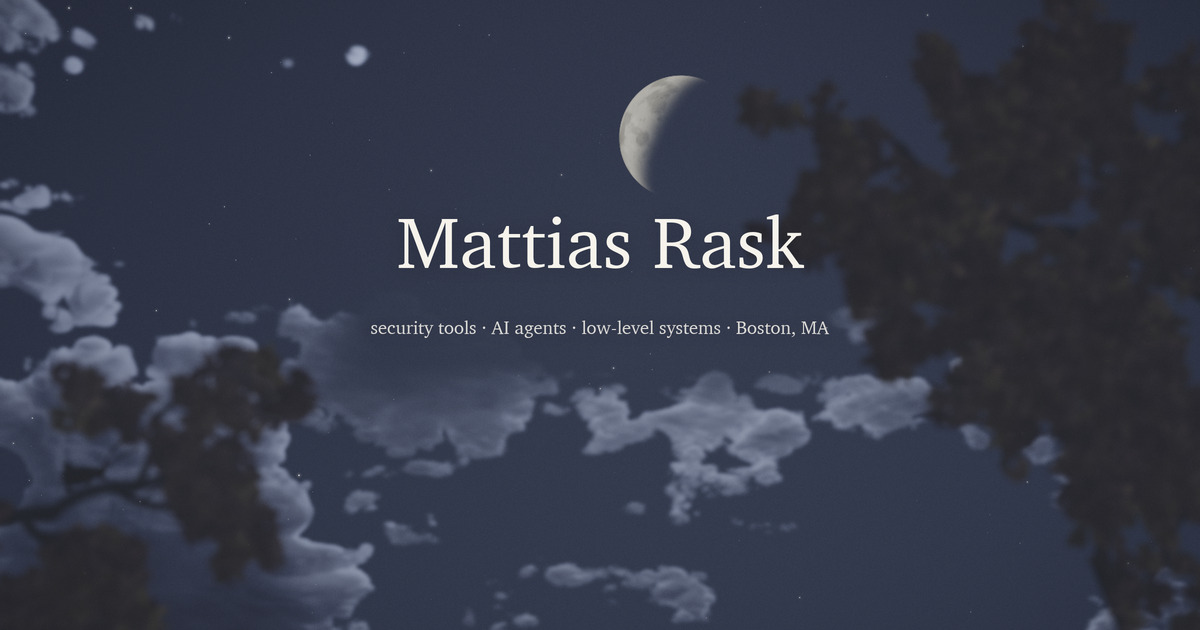
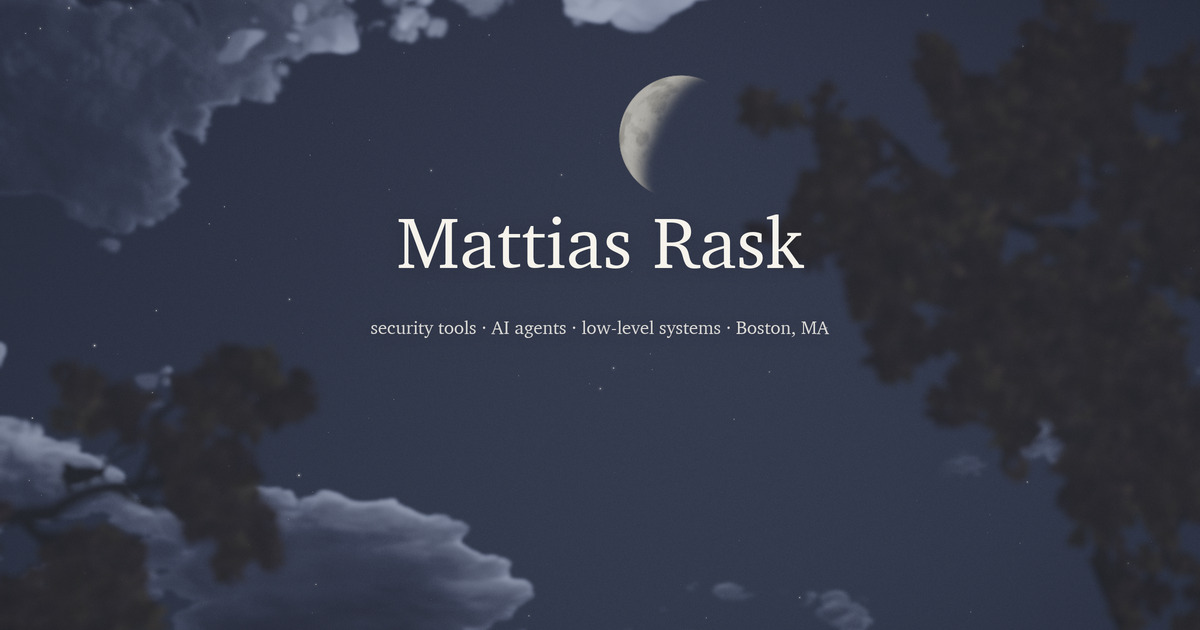
clouds clear the name again, fuller deck, night card

diff --git a/sky.js b/sky.js
@@ -16,12 +16,10 @@
    the tips, and the left limb keeps a bare stretch of wood for the
    cricket. The wind is a noise signal with
    real lulls and gusts: it runs through the crown, carries the clouds
-   slowly leftward as one unchanging piece (the words keep a clearing
-   by fading the clouds behind them, not by reshaping them, and a cloud
-   may pass over the moon), and when it rises leaves let go of the
-   clusters and
-   blow down through the picture, some flipping end over end the whole
-   way; by day a jet crosses the high sky now and then and its contrail
+   slowly leftward as one piece (the words keep a clearing that the
+   deck thins into gently over a wide reach, and a cloud may pass over
+   the moon), and when it rises leaves let go of the clusters and blow
+   down through the picture, some flipping end over end the whole way; by day a jet crosses the high sky now and then and its contrail
    widens and dissolves behind it. At night the wind drops: the clouds
    stand, the crown goes still, no leaf falls, a meteor falls instead,
    and a cricket sits on the left limb and chirps, wings raised and
@@ -89,21 +87,21 @@ var PAL = {
     glow: [0.8, 0.76, 0.64], clit: [1.06, 1.02, 0.95], cmid: scene('#cbc6cb'), cshd: scene('#97a0b6'),
     blit: scene('#6e6155'), bdrk: scene('#1c1815'),
     leaf: [['#9a4e2a', '#3e1f12'], ['#cf7f36', '#5c3315'], ['#d6ac48', '#6a541c']],
-    cover: 0.66, expo: 1.0, mgain: 1.0
+    cover: 0.68, expo: 1.0, mgain: 1.0
   },
   dusk: {
     zen: scene('#7180b5'), hor: scene('#d8b09a'), dmid: scene('#e5a778'), dfar: scene('#b79cb4'),
     glow: [1.0, 0.62, 0.36], clit: [1.08, 0.91, 0.78], cmid: scene('#c9a3a9'), cshd: scene('#9c8db0'),
     blit: scene('#735646'), bdrk: scene('#1a1310'),
     leaf: [['#b0562c', '#4a2214'], ['#dd8838', '#603315'], ['#e0b24c', '#6a501c']],
-    cover: 0.66, expo: 1.0, mgain: 1.0
+    cover: 0.68, expo: 1.0, mgain: 1.0
   },
   night: {
     zen: scene('#0a1024'), hor: scene('#1b2439'), dmid: scene('#1e2740'), dfar: scene('#141b30'),
     glow: [0.33, 0.37, 0.48], clit: scene('#5f6a86'), cmid: scene('#2a3149'), cshd: scene('#0b0f1e'),
     blit: scene('#0e1119'), bdrk: scene('#030407'),
     leaf: [['#2e242a', '#08050a'], ['#3b3134', '#0b0808'], ['#403a2e', '#0d0b07']],
-    cover: 0.60, expo: 1.0, mgain: 1.0
+    cover: 0.62, expo: 1.0, mgain: 1.0
   }
 };
 
@@ -278,7 +276,7 @@ float boxDist(vec2 p, vec4 r, vec2 s) {
   return length(max(d, 0.0)) + min(max(d.x, d.y), 0.0) - rad;
 }
 
-vec4 deck(vec2 p0, vec2 sunP, vec2 drift, float sc, float seed, float th, float far, float glow) {
+vec4 deck(vec2 p0, vec2 sunP, vec2 drift, float sc, float seed, float th0, float thin, float far, float glow) {
   float k = sc * FINE;
   p0 *= k;
   sunP *= k;
@@ -287,12 +285,14 @@ vec4 deck(vec2 p0, vec2 sunP, vec2 drift, float sc, float seed, float th, float 
   vec2 p = q0 + warp;
   float body, lobes, fine;
   float f = puff(p, seed, body, lobes, fine);
+  /* the clearing for the words raises the threshold, but by more in the
+     creases than on the bulges, so the cut edge is cauliflower and not
+     the straight iso-line of the ramp across a cloud's flat middle */
+  float th = th0 + thin * (1.15 - 0.5 * lobes);
   float e = f - th;
   float aa = fwidth(e) * 0.7 + 0.002 + far * 0.006;
-  /* a lobe with no body under it is a crumb, not a cloud; the window
-     sits well below the cut, so a cloud with body under it is opaque
-     through and never reads as haze */
-  float dens = smoothstep(-aa, aa, e) * smoothstep(-0.20, -0.12, body - th);
+  /* a lobe with no body under it is a crumb, not a cloud */
+  float dens = smoothstep(-aa, aa, e) * smoothstep(-0.07, 0.0, body - th);
   if (dens <= 0.0) return vec4(0.0);
   /* three normals, one per scale: the mass, from the body alone over a
      wide step, so a whole cloud keeps one lit side and one shadow side;
@@ -353,29 +353,27 @@ void main() {
   float th0 = mix(0.74, 0.38, COVER) + FOOT * (1.0 - smoothstep(0.0, 0.5, uv.y)) - HEAD * smoothstep(0.5, 1.0, uv.y);
   vec2 s = vec2(R.x / R.y, 1.0);
   vec2 sc = uv - SHIFT;
-  /* the words keep their clearing, but the clouds are not thinned there,
-     which would remake their shape as they drift through: they go
-     translucent instead, so a cloud crosses behind the name whole. The
-     moon has no clearing any more; a cloud simply passes over it */
-  float clear = 0.0;
+  /* the words keep a clearing: the cloud threshold rises gently toward
+     them over a wide reach, so the deck thins into open sky around the
+     name with no boundary, and the wobble, sampled at the drifted
+     point like everything else, keeps the clearing's outline irregular
+     and travelling with the clouds. The moon has no clearing; a cloud
+     may pass over it */
+  float thin = 0.0;
   if (boxDist(sc * s, BOX, s) < REACH + 0.06) {
     vec2 pw = p0 + drift / FINE;
-    vec2 bw = (vec2(fbm3(pw * 1.6 + 5.0), fbm3(pw * 1.6 + 19.0)) - 0.5) * 0.05
-            + (vec2(fbm3(pw * 4.5 + 83.0), fbm3(pw * 4.5 + 97.0)) - 0.5) * 0.02;
-    clear = 1.0 - smoothstep(-0.04, REACH, boxDist(sc * s + bw, BOX, s));
+    vec2 bw = (vec2(fbm3(pw * 1.6 + 5.0), fbm3(pw * 1.6 + 19.0)) - 0.5) * 0.18
+            + (vec2(fbm3(pw * 4.5 + 83.0), fbm3(pw * 4.5 + 97.0)) - 0.5) * 0.08;
+    thin = 0.28 * (1.0 - smoothstep(-0.04, REACH, boxDist(sc * s + bw, BOX, s)));
   }
-  float fade = 1.0 - 0.97 * clear;
   /* the far deck drifts at the near deck's pace, so the two never slide
-     past each other and the picture moves as one; it is cut sparser
-     than the near deck, so its paler clouds stay small and never read
-     as a haze */
-  vec4 far = deck(p0, sunP, drift * 2.1, 2.1, 41.0, th0 + 0.04, 1.0, glow);
-  far.rgb = mix(far.rgb, HOR, 0.20);
-  far.a *= fade;
-  vec4 near = deck(p0, sunP, drift, 1.0, 0.0, th0, 0.0, glow);
-  near.a *= fade;
-  float a = near.a + far.a * (1.0 - near.a);
-  if (a > 0.0) col = mix(col, (near.rgb * near.a + far.rgb * far.a * (1.0 - near.a)) / a, a);
+     past each other and the picture moves as one; it sits behind the
+     near deck, paler and a little translucent, the way distance reads */
+  vec4 far = deck(p0, sunP, drift * 2.1, 2.1, 41.0, th0 + 0.04, thin, 1.0, glow);
+  far.rgb = mix(far.rgb, HOR, 0.30);
+  vec4 near = deck(p0, sunP, drift, 1.0, 0.0, th0, thin, 0.0, glow);
+  float a = near.a + far.a * 0.8 * (1.0 - near.a);
+  if (a > 0.0) col = mix(col, (near.rgb * near.a + far.rgb * far.a * 0.8 * (1.0 - near.a)) / a, a);
   float cov = min(a, 1.0) * smoothstep(-0.05, 0.02, dir.y);
   o0 = vec4(col * SCALE, 1.0);
   o1 = vec4(cov, 0.0, 0.0, 1.0);
@@ -1367,9 +1365,9 @@ var mx = 0, my = 0, tx = 0, ty = 0;
 var running = false, raf = 0, last = 0, frameNo = 0;
 var visible = !document.hidden, inView = true;
 var box = [0, 0, 0, 0];
-/* the drift starts part way in, at a point picked for each frame on
-   first layout (see resize), where the clouds stand in the open sky
-   rather than in one corner */
+/* the drift starts part way in, at a point set on first layout (see
+   resize) where the clouds frame the words rather than crowd one
+   corner */
 var cloudT = -1, fine = 1, coverBoost = 0;
 var themeMeta = document.querySelector('meta[name="theme-color"]');
 
@@ -1409,7 +1407,7 @@ function measure() {
   if (!words) return;
   var hr = hero.getBoundingClientRect(), wr = words.getBoundingClientRect();
   if (!hr.width || !hr.height) return;
-  var px = 0.04 * hr.height, py = 0.03 * hr.height;
+  var px = 0.07 * hr.height, py = 0.05 * hr.height;
   box = [
     (wr.left - hr.left - px) / hr.width,
     1 - (wr.bottom - hr.top + py) / hr.height,
@@ -1599,12 +1597,12 @@ function resize() {
     D = portrait ? hw : Math.min(hh, Math.round(hw * 0.9));
     FBLUR = 4.0 * D / hh;
     MBLUR = 3.0 * D / hh;
-    REACH = portrait ? 0.07 : 0.07;
+    REACH = portrait ? 0.22 : 0.34;
     FOVK = portrait ? 1.15 : 1;
     YAW0 = portrait ? 5 * Math.PI / 180 : 0;
     STARS = portrait ? 2.2 : 1;
-    FOOT = portrait ? 0.15 : 0.07;
-    HEAD = portrait ? 0.06 : 0.05;
+    FOOT = portrait ? 0.15 : 0.09;
+    HEAD = portrait ? 0.09 : 0.09;
     MX = Math.round(hw * 0.05); MY = Math.round(hh * 0.05);
     fg.width = mid.width = scratch.width = hw + 2 * MX;
     fg.height = mid.height = scratch.height = hh + 2 * MY;
@@ -1617,12 +1615,13 @@ function resize() {
     var ar = cw / ch;
     var narrow = Math.min(1, Math.max(0, (16 / 9 - ar) / (16 / 9 - 1)));
     fine = portrait ? 1.1 : 1 + 0.8 * narrow;
-    coverBoost = portrait ? 0.04 : -0.18 * narrow;
-    /* a phone looks at the slice of sky that sits behind the crown on a
-       desktop, so each frame starts the drift where its own view is
-       best: a big cumulus at the left of the desktop frame with the
-       moon clear, a band of cloud under the words on a phone */
-    if (cloudT < 0) cloudT = portrait ? 330 : 150;
+    coverBoost = portrait ? 0.06 : -0.18 * narrow;
+    /* the drift starts where the open sky frames the words: on a
+       desktop a big cumulus arches over the top left with the moon
+       clear under its edge and a cloud sits low on the left; a phone,
+       turned toward the tree, sees a cloud edge above the moon and a
+       cloud at the foot */
+    if (cloudT < 0) cloudT = 133;
     sets = { day: null, dusk: null, night: null };
     seedLeaves();
     scheduleSets();
